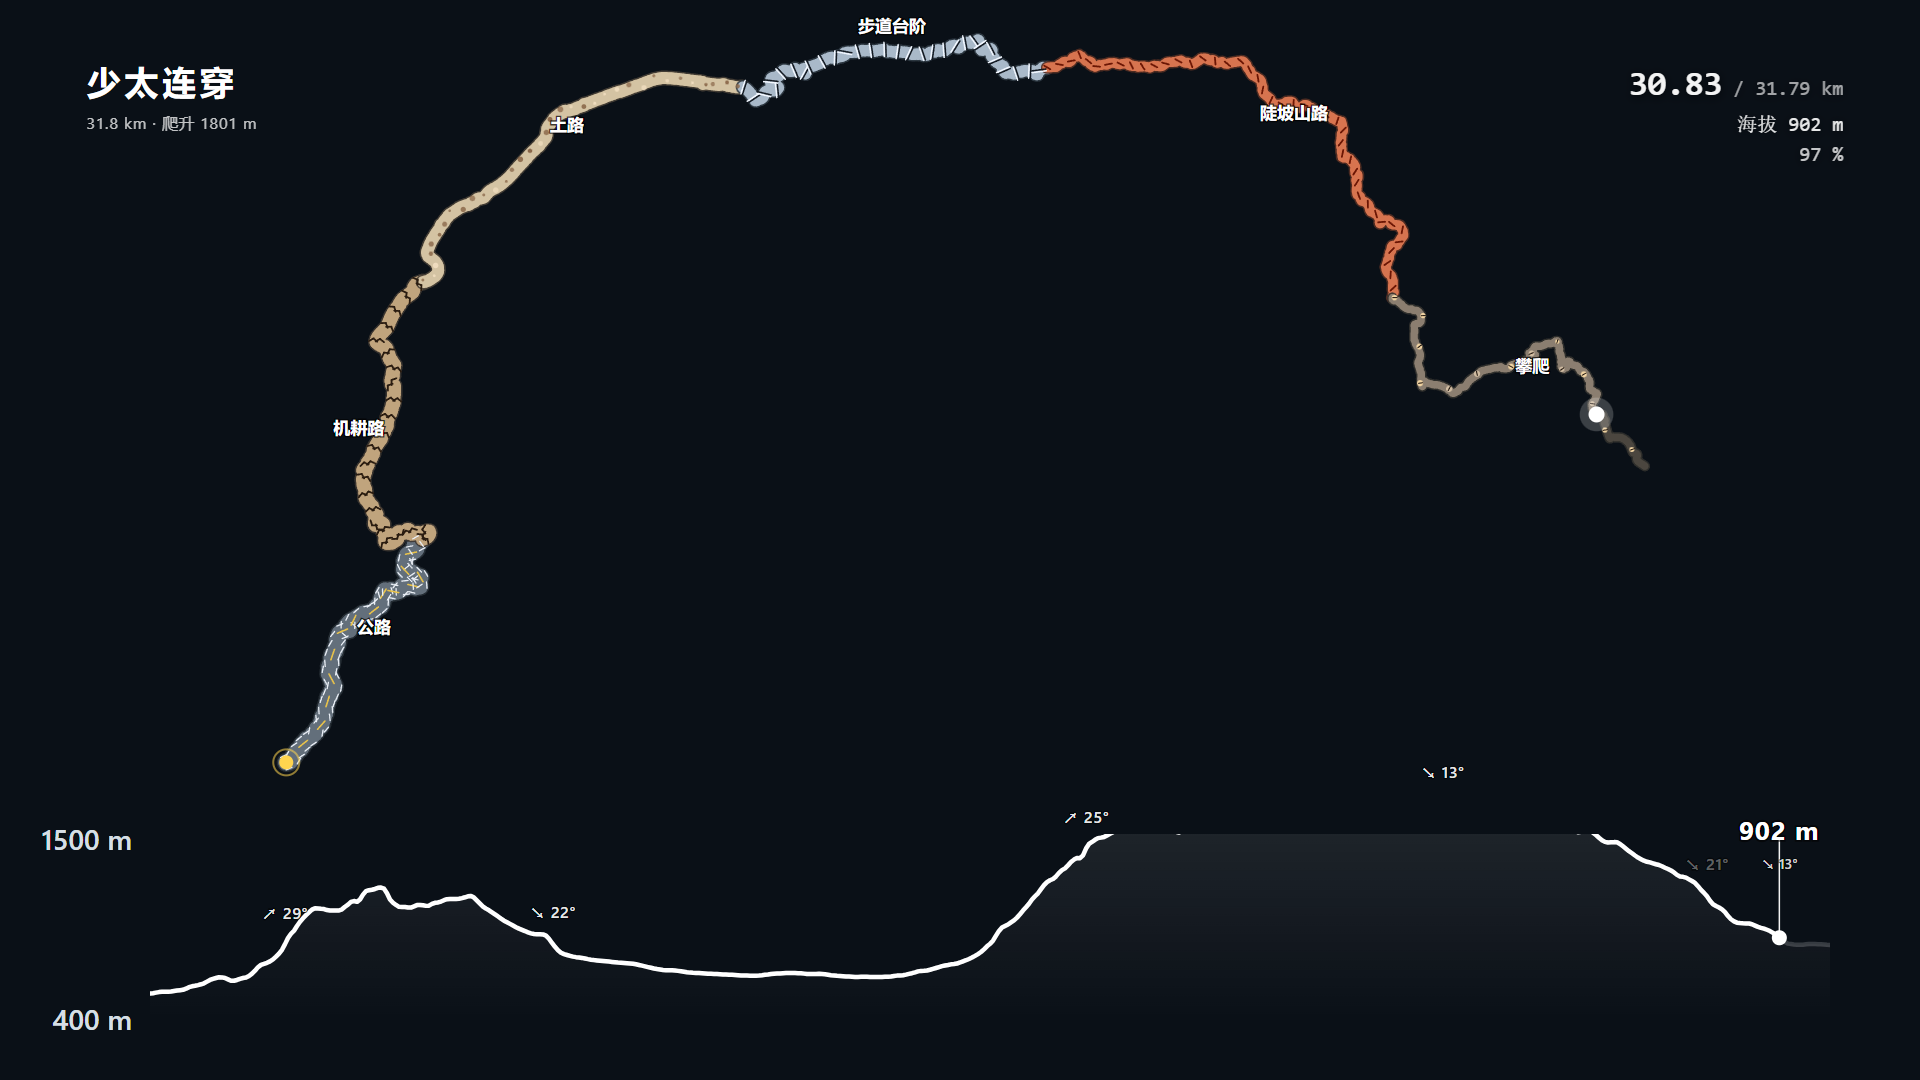
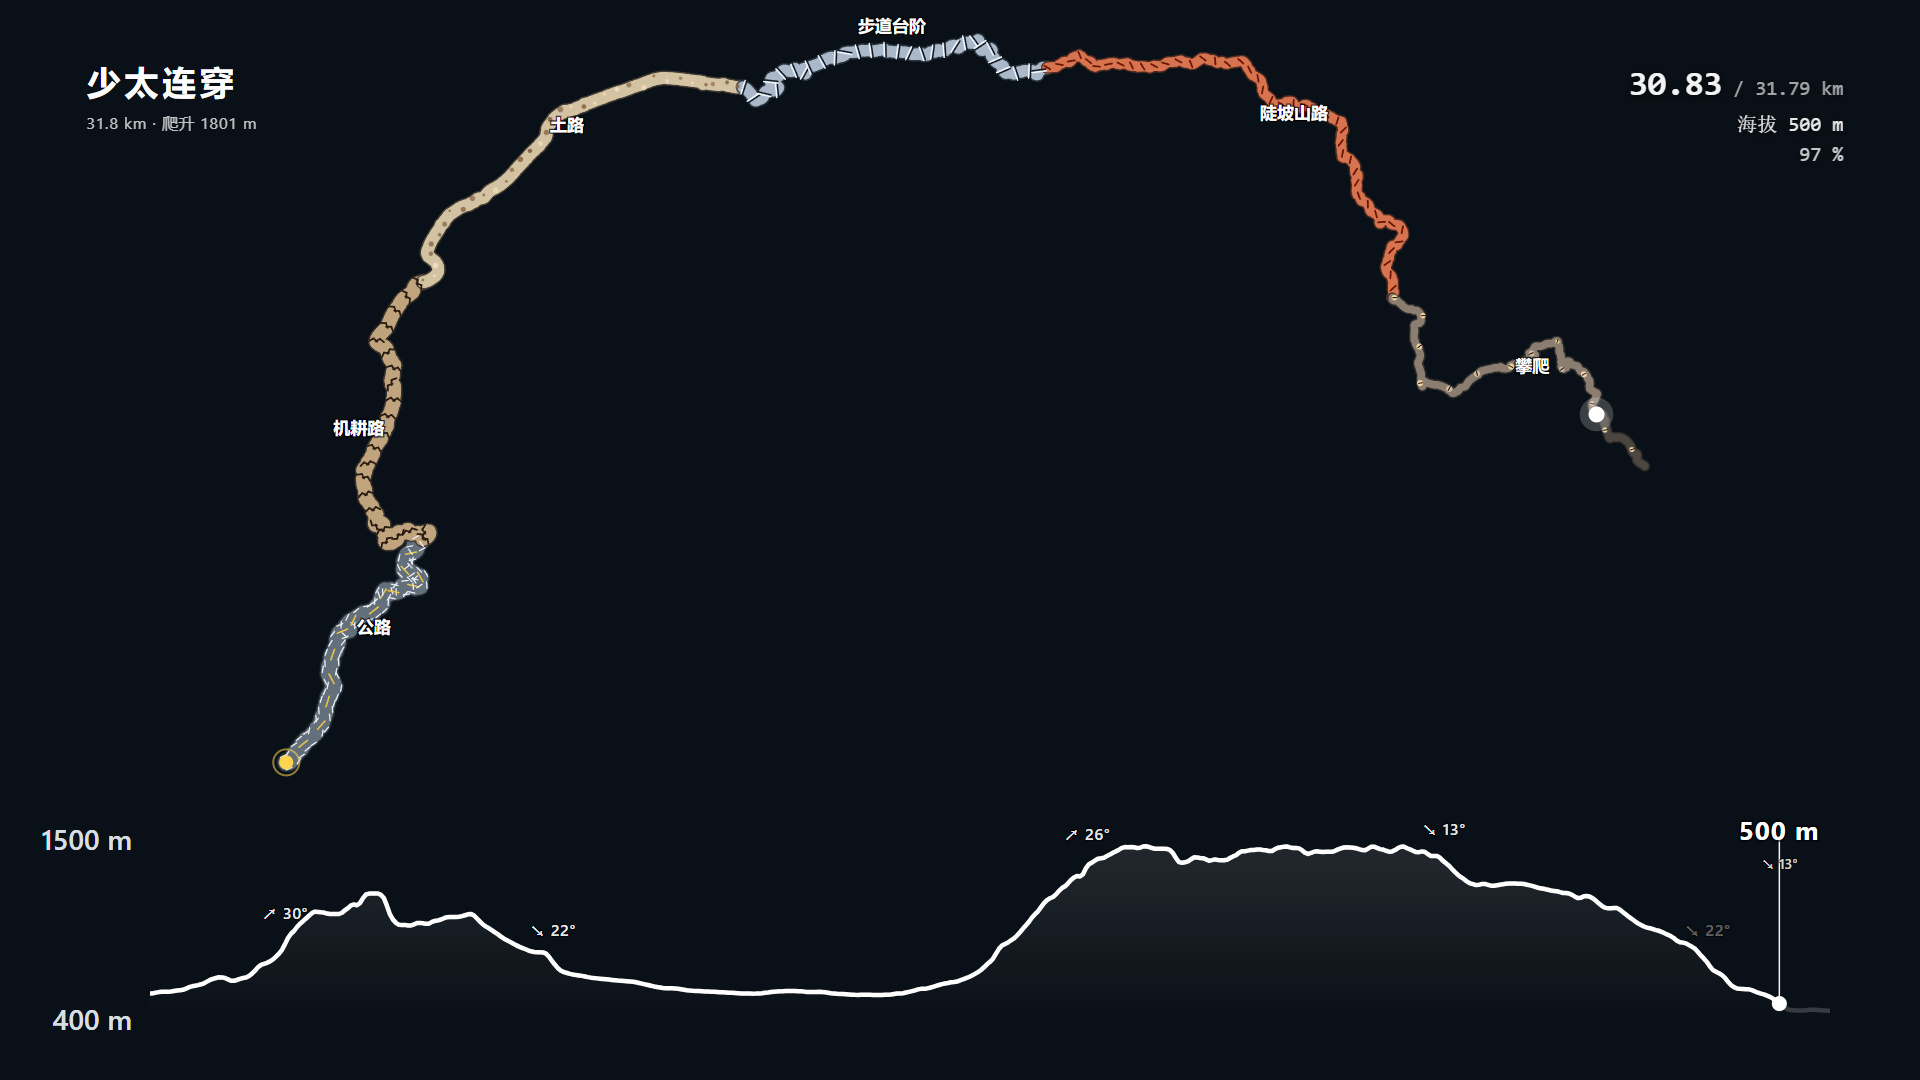
修：曲线冲出纵轴框（去尖峰导致海拔整体漂移 +406 m）
现象：纵轴固定 1500，线路最高 1468.6，曲线却顶到图框外，游标读数出现 1733 m。

根因是上一版把「替换式去尖峰」用在了画曲线的数据上：
替换掉 4.50 km（88 m）和 19.42 km（79 m）那两个台阶坏点后，这一步的高差被抹掉，
**后面所有点的绝对海拔整体平移 +406 m**（终点 452→858，峰顶 1468→1812）。
于是曲线冲出坐标区、读数比真实最高海拔还高。

改法：两套清洗，各管一段
- 画曲线/读数 → 新增 softenSpikes()：把多余高差均摊到前后各 10 步，总高差守恒，
  绝对海拔最大只差 4 m（原来 406 m）
- 算坡度 → 保留 despikeArray() 替换式（只取窗口差值，不怕整体漂移）

另加保险：纵轴固定值不再允许把数据切掉
- 上限低于线路最高海拔 → 自动撑到 最高+2% 留白；下限高于最低海拔 → 同样压低
- 示例：固定 1400 → 实际 400~1489，曲线不会出框

核对：帧 700/900/950/1073/1200 读数 1071/1443/1220/939/500（原 1186/1785/1627/1341/907）

diff --git a/project/src/trail-profile-schema.ts b/project/src/trail-profile-schema.ts
@@ -150,9 +150,9 @@ export const trailProfileSchema = z.object({
   "坐标轴": z.object({
     "显示上下限": z.boolean(),
     "下限模式": z.enum(TRAIL_AXIS_MODES),
-    "固定下限": z.number().step(10).min(0).max(4000),
+    "固定下限": z.number().step(10).min(0).max(4000).describe("纵轴下限（m）。高于线路最低海拔时会被自动压低，不会切掉曲线"),
     "上限模式": z.enum(TRAIL_AXIS_MODES),
-    "固定上限": z.number().step(10).min(100).max(6000),
+    "固定上限": z.number().step(10).min(100).max(6000).describe("纵轴上限（m）。低于线路最高海拔时会被自动撑到最高海拔+留白，不会切掉曲线"),
     "字号": z.number().step(1).min(10).max(72),
     "颜色": zColor(),
     "显示上下基线": z.boolean(),

diff --git a/skills/remotion-trail-profile/SKILL.md b/skills/remotion-trail-profile/SKILL.md
@@ -337,11 +337,15 @@ export function markShapes(shape, s, color) {
 3. **必须先平滑再算**。10 m 步长下 GPS 高程二阶差分中位数 0.7 m、p99 16 m，
    直接拿相邻点算就是 ±4° 起步的假坡度。实测同一段：原样 29.6° / 平滑 90 m 27.0° / 平滑 250 m 19.5°。
    默认 90 m 是「压得住噪声、又不会把陡坡抹平」的折中。
-4. **先去掉高程「台阶」坏点，再平滑**。GPS 高程会一步跳几十米然后**停在那儿**，
-   滑动平均只会把它摊成一个几十米宽的假坑，而「段内最陡窗口」会把这个坑当成最陡坡。
-   实测少太连穿有两处：4.50 km（1124→1036，88 m/10 m）、19.42 km（1424→1345，79 m/10 m），
-   去掉之前 19–26 km 段虚报 24°，去掉之后是 13°。做法见 `trail-geo.mjs` 的 `despikeArray()`
-   （逐点高差取邻域中值，超 `1.5×步长` 才替换），只动离谱的那几步，≤50° 的真实陡坡原样保留。
+4. **高程「台阶」坏点要分两套处理，混用会毁掉绝对海拔**。GPS 高程会一步跳几十米然后**停在那儿**，
+   滑动平均救不了（只会摊成几十米宽的假坑），而「段内最陡窗口」会把假坑当成最陡坡。
+   实测少太连穿两处：4.50 km（1124→1036，88 m/10 m）、19.42 km（1424→1345，79 m/10 m）。
+   - **画曲线 / 读数** → `softenSpikes()`：把多出来的高差**均摊到前后各 10 步**，总高差守恒。
+   - **算坡度** → `despikeArray()`：直接把那一步**替换**成邻域中值（只取窗口差值，不怕漂移）。
+
+   ★ 为什么不能都用替换式：替换会把这一步的高差**抹掉**，后面所有点的绝对海拔整体平移。
+   实测少太连穿被平移 **+406 m**（终点 452→858，峰顶 1468→1812），于是曲线冲出纵轴框、
+   读数比真实最高海拔还高（用户看到的「1733 m」就是这么来的）。**这条是踩过的血坑，别再用推荐的做法去改画曲线那份数据。**
 
 
 
